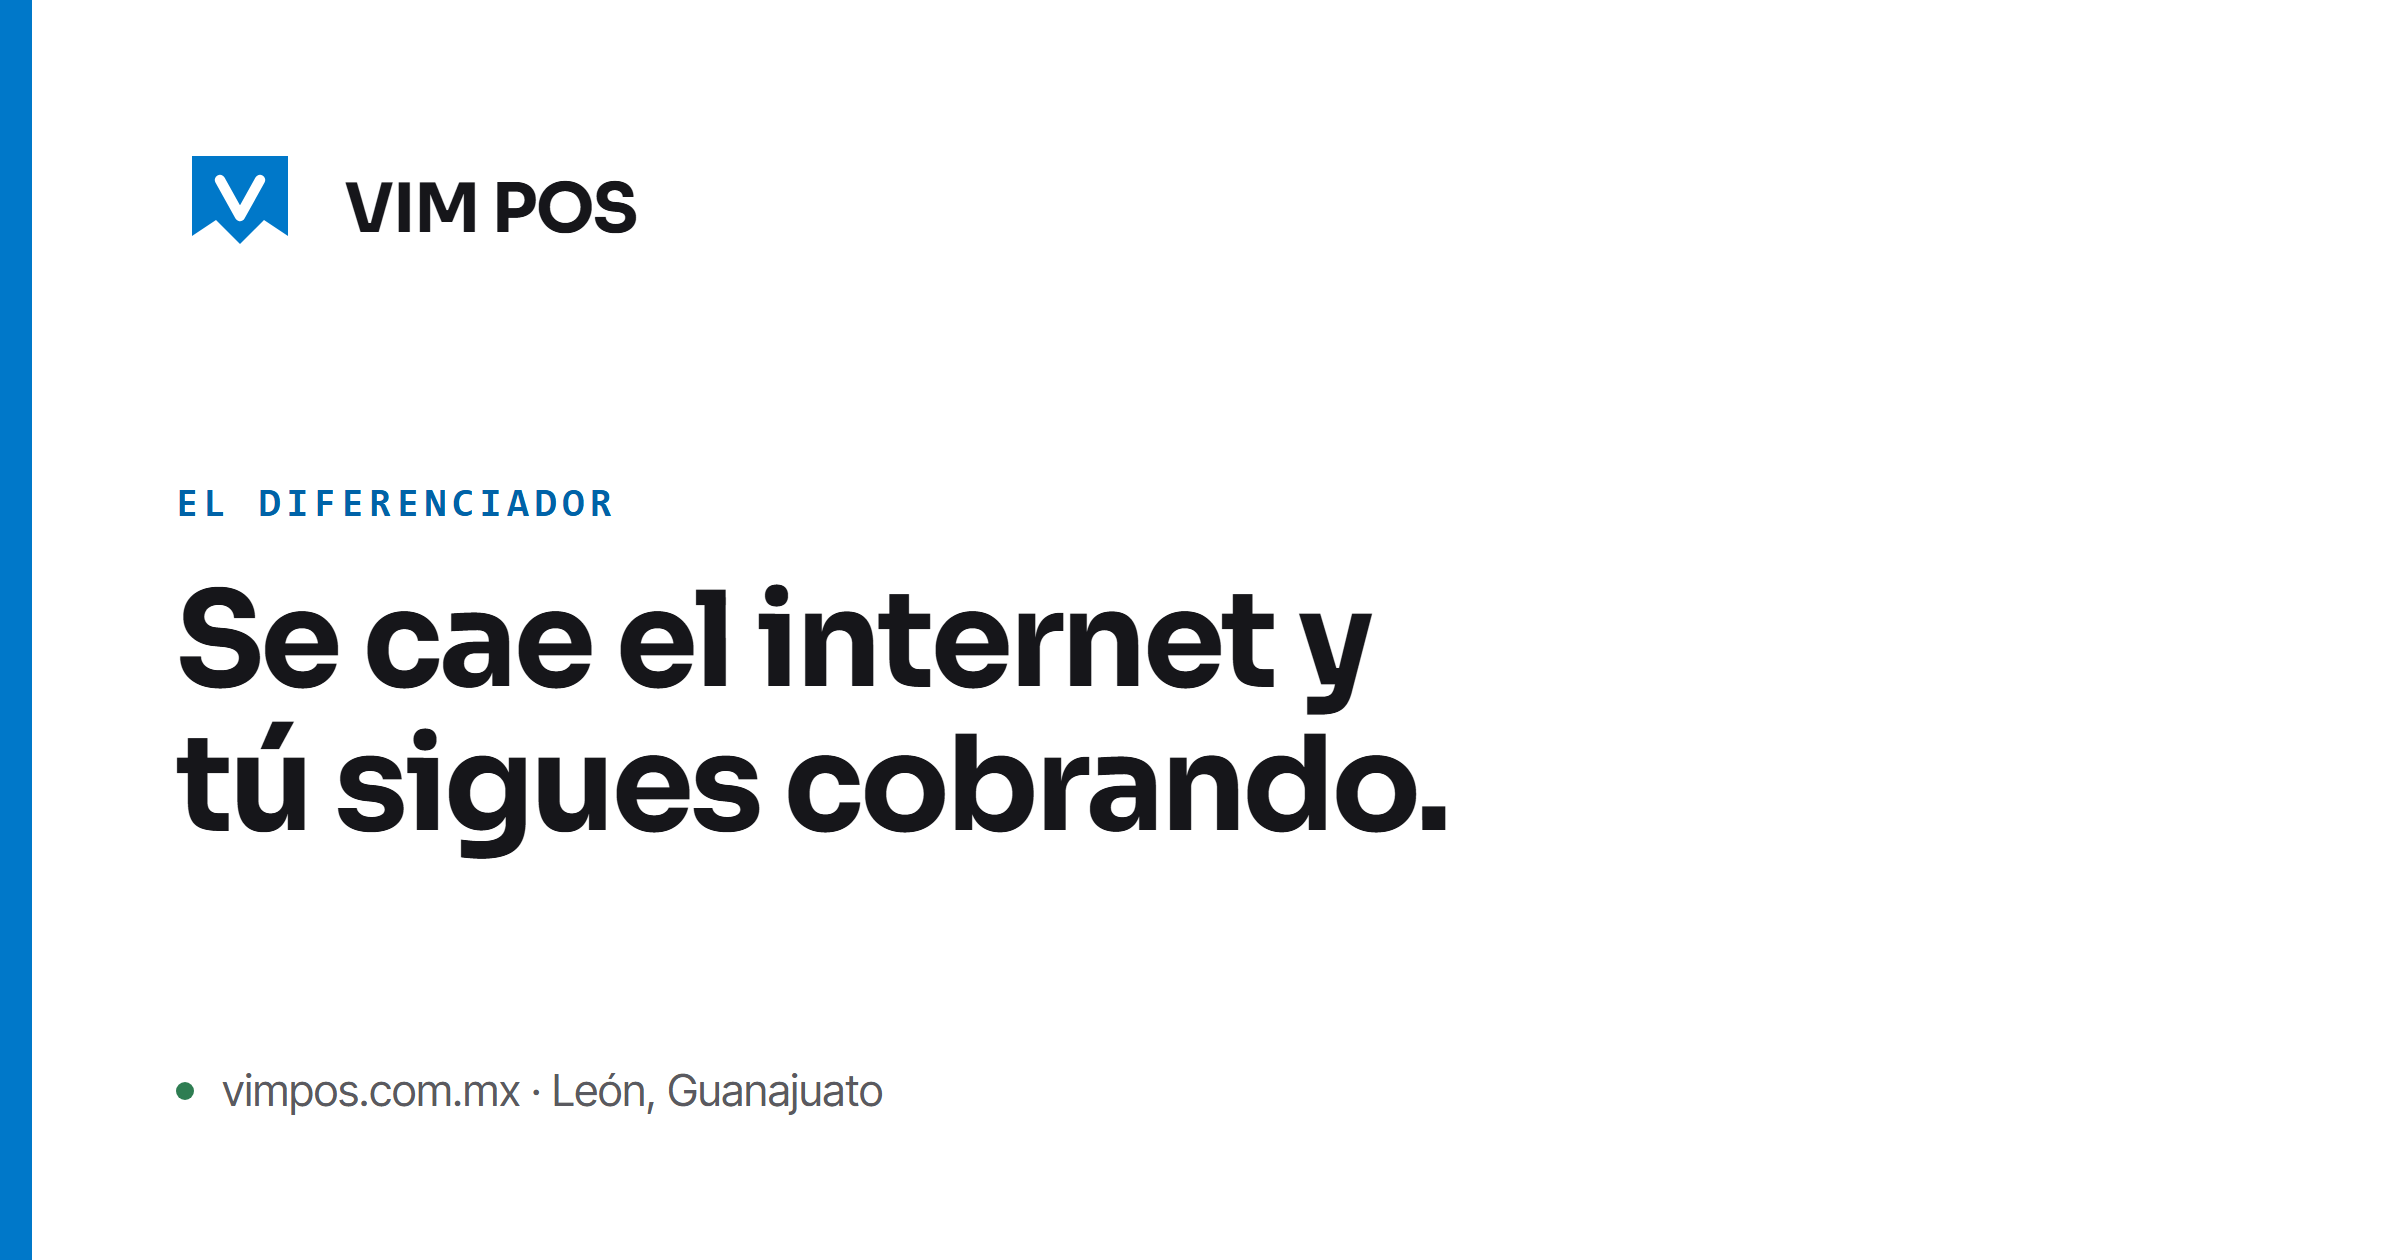
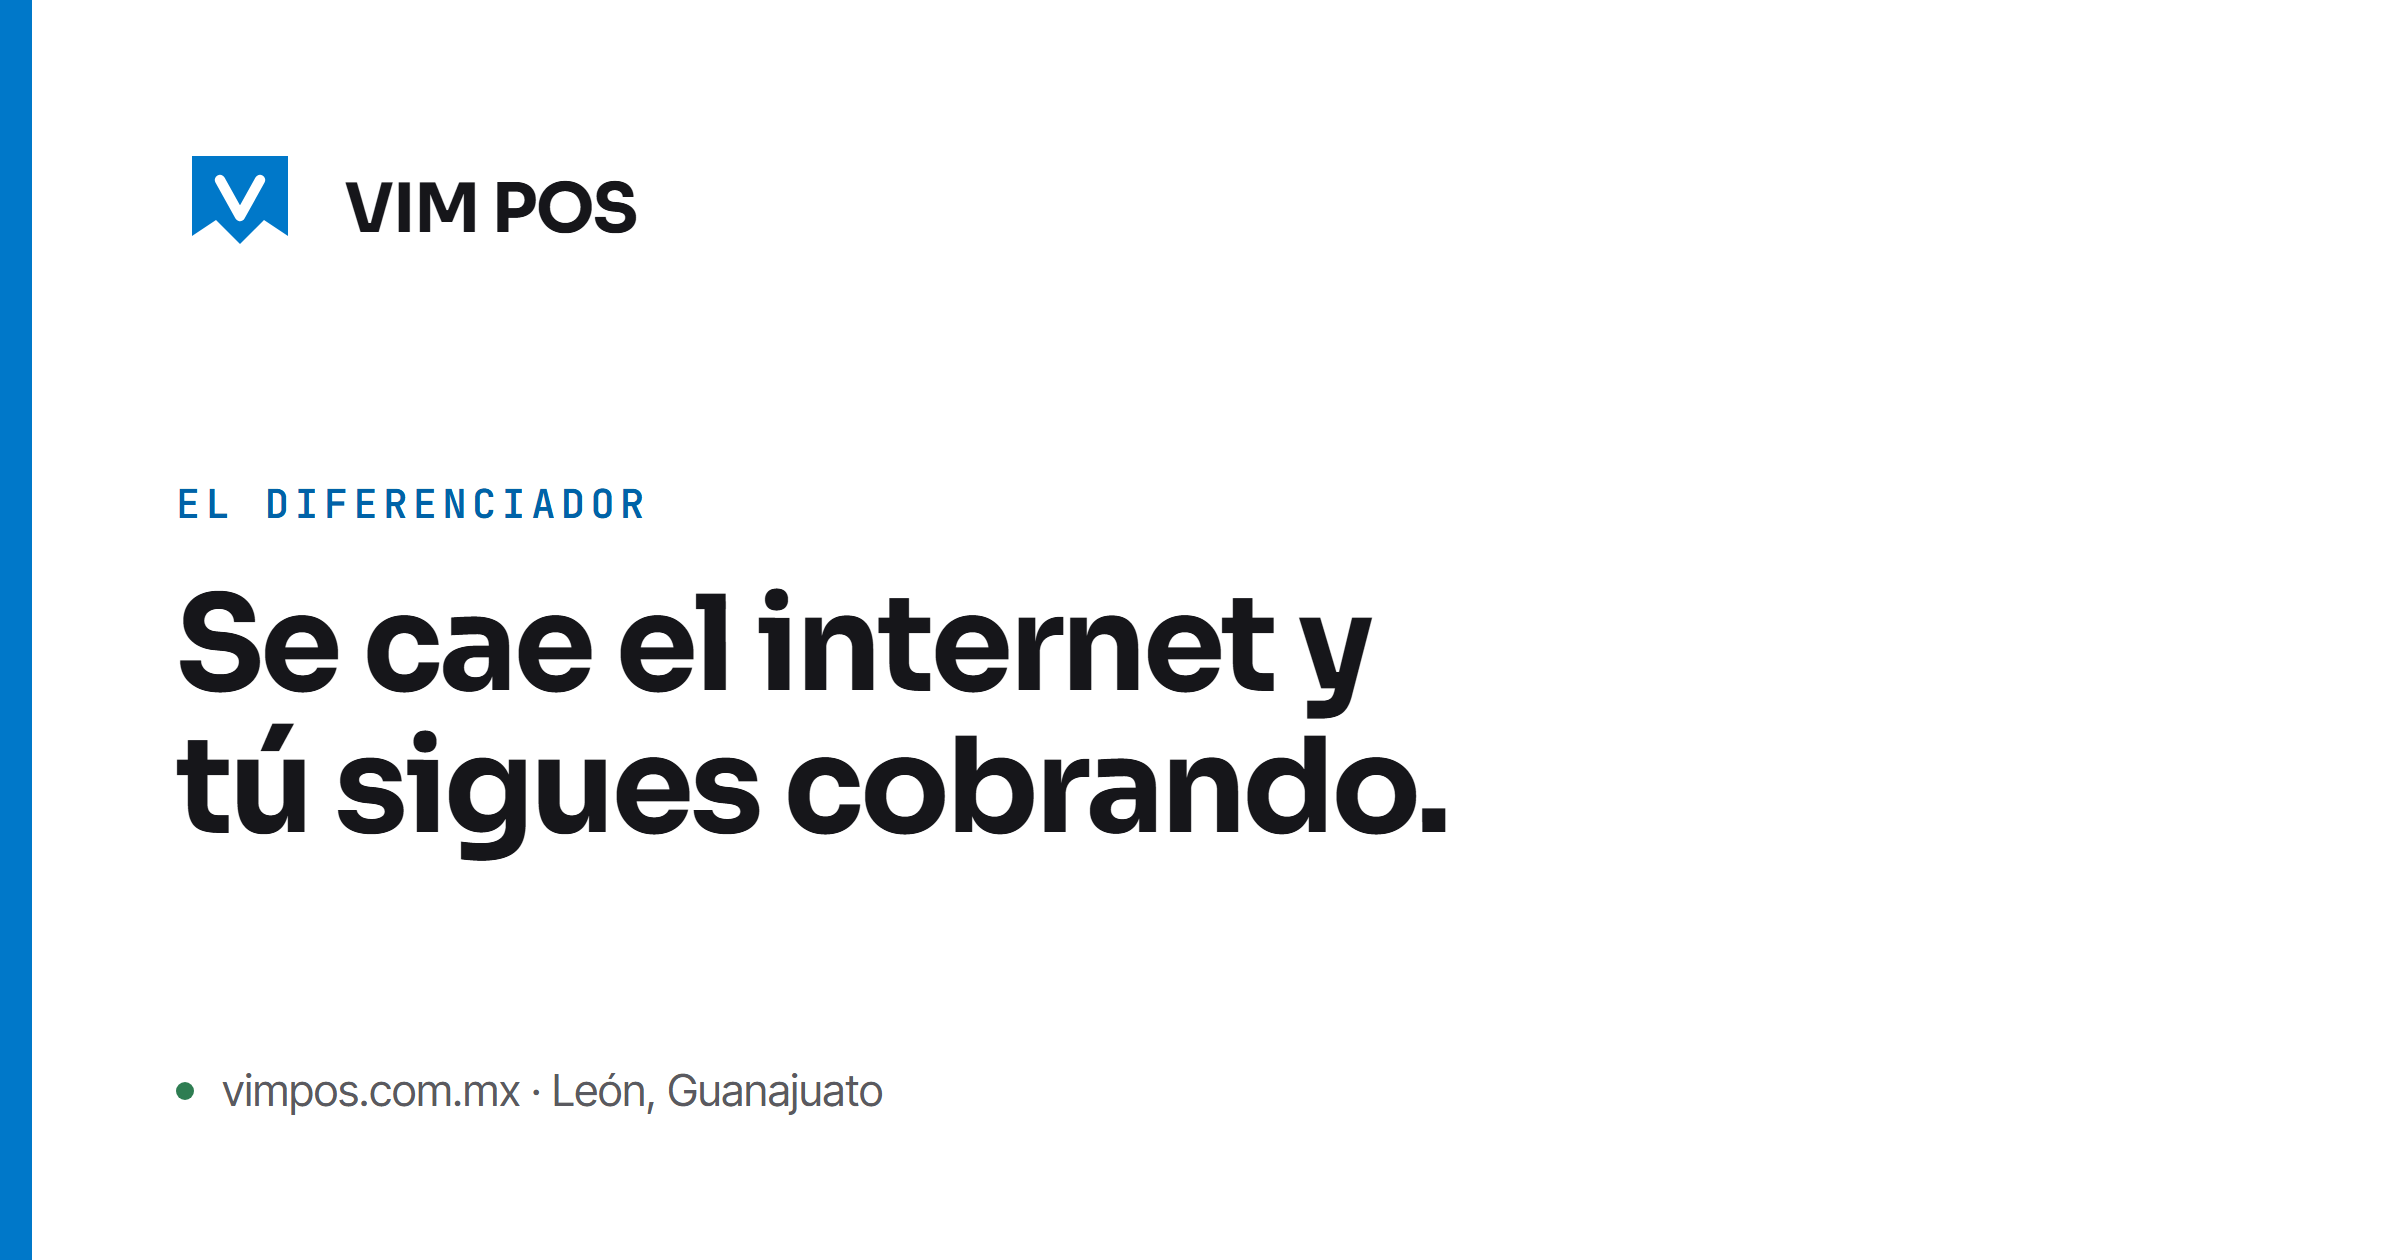
sitio: tres imágenes Open Graph propias y medición sin cookies
- OG: facturación, cómo elegir y cuánto cuesta ya no reutilizan la tarjeta
  de otra página. Las nueve se regeneran con la misma plantilla, que ahora
  sí carga JetBrains Mono para el rótulo (antes caía a la monoespaciada del
  sistema).
- Analítica: Vercel Web Analytics, servida desde este dominio y sin cookies.
  El script va en las catorce páginas; los cuatro eventos (clic en WhatsApp,
  demo enviada, precio anual, pregunta abierta) salen de vim.js por una cola
  que no rompe nada si el script no está. Falta encenderla en el proyecto de
  Vercel; hasta entonces el script es un 404 inofensivo.
- Aviso de privacidad: el párrafo de medición dice lo que se mide y con qué.
- Prueba de enlaces: `/_vercel/…` lo sirve la plataforma, no la carpeta.
- Versión de CSS y JS a 13.

diff --git a/sitio-web/assets/js/vim.js b/sitio-web/assets/js/vim.js
@@ -23,6 +23,26 @@
   var ANON = "eyJhbGciOiJIUzI1NiIsInR5cCI6IkpXVCJ9.eyJpc3MiOiJzdXBhYmFzZSIsInJlZiI6InBiaWF4enZtc3Nqc3hkd3FydW1iIiwicm9sZSI6ImFub24iLCJpYXQiOjE3ODAyNTMyMzIsImV4cCI6MjA5NTgyOTIzMn0.OsfFcqw-jrj-qZtFkUPQCrLgYtnDmsOxC93iLJShpKs";
   var WHATSAPP = "hola@vimpos.com.mx";
 
+  /* ---- Medición sin cookies ----------------------------------------------
+     Vercel Web Analytics: el script se sirve desde este mismo dominio, no pone
+     cookies y no identifica a nadie (el aviso de privacidad lo dice así).
+     Esta cola guarda los eventos que ocurran antes de que cargue el script;
+     él la vacía al arrancar. Si el script no está (analítica apagada en
+     Vercel, o el servidor local), nada se rompe: la cola crece y ya.
+
+     Cuatro eventos, los que dicen si el sitio vende: clic en WhatsApp, demo
+     enviada, cambio a precio anual y qué pregunta se abre. */
+  window.va = window.va || function () { (window.vaq = window.vaq || []).push(arguments); };
+  function medir(nombre, datos) {
+    try { window.va("event", { name: nombre, data: datos || {} }); } catch (e) { /* nunca estorba */ }
+  }
+
+  document.querySelectorAll('a[href*="wa.me/"]').forEach(function (a) {
+    a.addEventListener("click", function () {
+      medir("whatsapp", { pagina: location.pathname });
+    });
+  });
+
   /* ---- Menú móvil: cajón lateral ------------------------------------------
      La animación es CSS puro (`translateX`), así que aquí no se mide ni se
      escribe ningún alto — eso era la versión anterior, que se desplegaba hacia
@@ -154,6 +174,7 @@
       panel.style.height = abierto ? "0px" : panel.scrollHeight + "px";
       item.setAttribute("data-abierto", String(!abierto));
       boton.setAttribute("aria-expanded", String(!abierto));
+      if (!abierto) medir("acordeon", { titulo: boton.textContent.trim().slice(0, 80), pagina: location.pathname });
     });
   });
 
@@ -199,6 +220,8 @@
         document.querySelectorAll("[data-nota-periodo]").forEach(function (n) {
           n.textContent = anual ? "al mes, pagando el año, más IVA" : "al mes, más IVA";
         });
+
+        if (anual) medir("precio_anual");
       });
     });
   }
@@ -328,6 +351,7 @@
           form.hidden = true;
           listo.hidden = false;
           listo.querySelector("h2").focus();
+          medir("demo_enviada");
         })
         .catch(function (err) {
           /* El error no deja al visitante sin salida: se le ofrece WhatsApp,

diff --git a/sitio-web/aviso-privacidad.html b/sitio-web/aviso-privacidad.html
@@ -36,7 +36,7 @@
 <link rel="manifest" href="site.webmanifest">
 <meta name="theme-color" content="#0078C9">
 
-<link rel="stylesheet" href="assets/css/vim.css?v=12">
+<link rel="stylesheet" href="assets/css/vim.css?v=13">
 </head>
 <body>
 
@@ -223,8 +223,12 @@
             para verse está en este mismo sitio, así que tu visita no se le anuncia a nadie más.
           </p>
           <p>
-            Si más adelante medimos las visitas, será con una herramienta sin cookies y que no
-            identifica a nadie. Si eso cambiara, se actualizaría este aviso antes.
+            <strong>Sí medimos las visitas</strong>, con la herramienta del proveedor que aloja el
+            sitio (Vercel Web Analytics). No usa cookies, no guarda tu dirección IP y no identifica
+            a nadie: cuenta cuántas personas ven cada página, desde qué país y en qué tipo de
+            dispositivo, y si se hizo clic en WhatsApp, se envió el formulario de demostración, se
+            consultó el precio anual o se abrió una pregunta frecuente. No hay forma de saber quién
+            hizo cada cosa. Si esto cambiara, se actualizaría este aviso antes.
           </p>
         </div>
 
@@ -300,7 +304,11 @@
   </div>
 </footer>
 
-<script src="assets/js/vim.js?v=12" defer></script>
+<script src="assets/js/vim.js?v=13" defer></script>
+<!-- Medición sin cookies (Vercel Web Analytics). Se sirve desde este dominio y
+     solo existe si está encendida en el proyecto de Vercel; si no, es un 404
+     inofensivo. Los eventos se mandan desde vim.js. -->
+<script defer src="/_vercel/insights/script.js"></script>
 <script type="application/ld+json">
 {
   "@context": "https://schema.org",

diff --git a/sitio-web/cuanto-cuesta-un-sistema-para-restaurante.html b/sitio-web/cuanto-cuesta-un-sistema-para-restaurante.html
@@ -15,7 +15,7 @@
 <meta property="og:title" content="Cuánto cuesta de verdad un sistema para restaurante">
 <meta property="og:description" content="Licencia fija, gratuito o porcentaje por venta. La aritmética para comparar los tres con tu venta real.">
 <meta property="og:url" content="https://vimpos.com.mx/cuanto-cuesta-un-sistema-para-restaurante">
-<meta property="og:image" content="https://vimpos.com.mx/assets/img/og/precios.png">
+<meta property="og:image" content="https://vimpos.com.mx/assets/img/og/cuanto-cuesta.png">
 <meta property="og:image:width" content="1200">
 <meta property="og:image:height" content="630">
 <meta property="og:image:alt" content="VIM POS, punto de venta para restaurantes en Mexico">
@@ -36,7 +36,7 @@
 <link rel="manifest" href="site.webmanifest">
 <meta name="theme-color" content="#0078C9">
 
-<link rel="stylesheet" href="assets/css/vim.css?v=12">
+<link rel="stylesheet" href="assets/css/vim.css?v=13">
 </head>
 <body>
 
@@ -312,7 +312,11 @@
   </div>
 </footer>
 
-<script src="assets/js/vim.js?v=12" defer></script>
+<script src="assets/js/vim.js?v=13" defer></script>
+<!-- Medición sin cookies (Vercel Web Analytics). Se sirve desde este dominio y
+     solo existe si está encendida en el proyecto de Vercel; si no, es un 404
+     inofensivo. Los eventos se mandan desde vim.js. -->
+<script defer src="/_vercel/insights/script.js"></script>
 
 <script type="application/ld+json">
 {

diff --git a/sitio-web/como-elegir-sistema-restaurante.html b/sitio-web/como-elegir-sistema-restaurante.html
@@ -15,7 +15,7 @@
 <meta property="og:title" content="Cómo elegir el sistema para tu restaurante">
 <meta property="og:description" content="Nueve preguntas que conviene hacerle a cualquier proveedor antes de firmar. Incluye en qué casos VIM POS no es la respuesta.">
 <meta property="og:url" content="https://vimpos.com.mx/como-elegir-sistema-restaurante">
-<meta property="og:image" content="https://vimpos.com.mx/assets/img/og/home.png">
+<meta property="og:image" content="https://vimpos.com.mx/assets/img/og/como-elegir.png">
 <meta property="og:image:width" content="1200">
 <meta property="og:image:height" content="630">
 <meta property="og:image:alt" content="VIM POS, punto de venta para restaurantes en Mexico">
@@ -36,7 +36,7 @@
 <link rel="manifest" href="site.webmanifest">
 <meta name="theme-color" content="#0078C9">
 
-<link rel="stylesheet" href="assets/css/vim.css?v=12">
+<link rel="stylesheet" href="assets/css/vim.css?v=13">
 </head>
 <body>
 
@@ -355,7 +355,11 @@
   </div>
 </footer>
 
-<script src="assets/js/vim.js?v=12" defer></script>
+<script src="assets/js/vim.js?v=13" defer></script>
+<!-- Medición sin cookies (Vercel Web Analytics). Se sirve desde este dominio y
+     solo existe si está encendida en el proyecto de Vercel; si no, es un 404
+     inofensivo. Los eventos se mandan desde vim.js. -->
+<script defer src="/_vercel/insights/script.js"></script>
 
 <script type="application/ld+json">
 {

diff --git a/sitio-web/facturacion-cfdi.html b/sitio-web/facturacion-cfdi.html
@@ -15,7 +15,7 @@
 <meta property="og:title" content="Facturación CFDI 4.0 para tu restaurante">
 <meta property="og:description" content="Autofactura por QR desde el ticket, factura global automática, y el periodo lo eliges tú. Sin e.firma.">
 <meta property="og:url" content="https://vimpos.com.mx/facturacion-cfdi">
-<meta property="og:image" content="https://vimpos.com.mx/assets/img/og/funciones.png">
+<meta property="og:image" content="https://vimpos.com.mx/assets/img/og/facturacion-cfdi.png">
 <meta property="og:image:width" content="1200">
 <meta property="og:image:height" content="630">
 <meta property="og:image:alt" content="VIM POS, punto de venta para restaurantes en Mexico">
@@ -36,7 +36,7 @@
 <link rel="manifest" href="site.webmanifest">
 <meta name="theme-color" content="#0078C9">
 
-<link rel="stylesheet" href="assets/css/vim.css?v=12">
+<link rel="stylesheet" href="assets/css/vim.css?v=13">
 </head>
 <body>
 
@@ -410,7 +410,11 @@
   </div>
 </footer>
 
-<script src="assets/js/vim.js?v=12" defer></script>
+<script src="assets/js/vim.js?v=13" defer></script>
+<!-- Medición sin cookies (Vercel Web Analytics). Se sirve desde este dominio y
+     solo existe si está encendida en el proyecto de Vercel; si no, es un 404
+     inofensivo. Los eventos se mandan desde vim.js. -->
+<script defer src="/_vercel/insights/script.js"></script>
 
 <script type="application/ld+json">
 {

diff --git a/sitio-web/demo.html b/sitio-web/demo.html
@@ -36,7 +36,7 @@
 <link rel="manifest" href="site.webmanifest">
 <meta name="theme-color" content="#0078C9">
 
-<link rel="stylesheet" href="assets/css/vim.css?v=12">
+<link rel="stylesheet" href="assets/css/vim.css?v=13">
 </head>
 <body>
 
@@ -313,7 +313,11 @@
   </div>
 </footer>
 
-<script src="assets/js/vim.js?v=12" defer></script>
+<script src="assets/js/vim.js?v=13" defer></script>
+<!-- Medición sin cookies (Vercel Web Analytics). Se sirve desde este dominio y
+     solo existe si está encendida en el proyecto de Vercel; si no, es un 404
+     inofensivo. Los eventos se mandan desde vim.js. -->
+<script defer src="/_vercel/insights/script.js"></script>
 <script type="application/ld+json">
 {
   "@context": "https://schema.org",

diff --git a/sitio-web/funciones.html b/sitio-web/funciones.html
@@ -36,7 +36,7 @@
 <link rel="manifest" href="site.webmanifest">
 <meta name="theme-color" content="#0078C9">
 
-<link rel="stylesheet" href="assets/css/vim.css?v=12">
+<link rel="stylesheet" href="assets/css/vim.css?v=13">
 </head>
 <body>
 
@@ -616,7 +616,11 @@
   </div>
 </footer>
 
-<script src="assets/js/vim.js?v=12" defer></script>
+<script src="assets/js/vim.js?v=13" defer></script>
+<!-- Medición sin cookies (Vercel Web Analytics). Se sirve desde este dominio y
+     solo existe si está encendida en el proyecto de Vercel; si no, es un 404
+     inofensivo. Los eventos se mandan desde vim.js. -->
+<script defer src="/_vercel/insights/script.js"></script>
 <script type="application/ld+json">
 {
   "@context": "https://schema.org",

diff --git a/sitio-web/precios.html b/sitio-web/precios.html
@@ -36,7 +36,7 @@
 <link rel="manifest" href="site.webmanifest">
 <meta name="theme-color" content="#0078C9">
 
-<link rel="stylesheet" href="assets/css/vim.css?v=12">
+<link rel="stylesheet" href="assets/css/vim.css?v=13">
 </head>
 <body>
 
@@ -681,7 +681,11 @@
   </div>
 </footer>
 
-<script src="assets/js/vim.js?v=12" defer></script>
+<script src="assets/js/vim.js?v=13" defer></script>
+<!-- Medición sin cookies (Vercel Web Analytics). Se sirve desde este dominio y
+     solo existe si está encendida en el proyecto de Vercel; si no, es un 404
+     inofensivo. Los eventos se mandan desde vim.js. -->
+<script defer src="/_vercel/insights/script.js"></script>
 <script type="application/ld+json">
 {
   "@context": "https://schema.org",

diff --git a/sitio-web/sin-internet.html b/sitio-web/sin-internet.html
@@ -36,7 +36,7 @@
 <link rel="manifest" href="site.webmanifest">
 <meta name="theme-color" content="#0078C9">
 
-<link rel="stylesheet" href="assets/css/vim.css?v=12">
+<link rel="stylesheet" href="assets/css/vim.css?v=13">
 </head>
 <body>
 
@@ -542,7 +542,11 @@
   </div>
 </footer>
 
-<script src="assets/js/vim.js?v=12" defer></script>
+<script src="assets/js/vim.js?v=13" defer></script>
+<!-- Medición sin cookies (Vercel Web Analytics). Se sirve desde este dominio y
+     solo existe si está encendida en el proyecto de Vercel; si no, es un 404
+     inofensivo. Los eventos se mandan desde vim.js. -->
+<script defer src="/_vercel/insights/script.js"></script>
 <script type="application/ld+json">
 {
   "@context": "https://schema.org",

diff --git a/sitio-web/terminos.html b/sitio-web/terminos.html
@@ -36,7 +36,7 @@
 <link rel="manifest" href="site.webmanifest">
 <meta name="theme-color" content="#0078C9">
 
-<link rel="stylesheet" href="assets/css/vim.css?v=12">
+<link rel="stylesheet" href="assets/css/vim.css?v=13">
 </head>
 <body>
 
@@ -342,7 +342,11 @@
   </div>
 </footer>
 
-<script src="assets/js/vim.js?v=12" defer></script>
+<script src="assets/js/vim.js?v=13" defer></script>
+<!-- Medición sin cookies (Vercel Web Analytics). Se sirve desde este dominio y
+     solo existe si está encendida en el proyecto de Vercel; si no, es un 404
+     inofensivo. Los eventos se mandan desde vim.js. -->
+<script defer src="/_vercel/insights/script.js"></script>
 <script type="application/ld+json">
 {
   "@context": "https://schema.org",

diff --git a/sitio-web/contacto.html b/sitio-web/contacto.html
@@ -36,7 +36,7 @@
 <link rel="manifest" href="site.webmanifest">
 <meta name="theme-color" content="#0078C9">
 
-<link rel="stylesheet" href="assets/css/vim.css?v=12">
+<link rel="stylesheet" href="assets/css/vim.css?v=13">
 </head>
 <body>
 
@@ -260,7 +260,11 @@
 }
 </script>
 
-<script src="assets/js/vim.js?v=12" defer></script>
+<script src="assets/js/vim.js?v=13" defer></script>
+<!-- Medición sin cookies (Vercel Web Analytics). Se sirve desde este dominio y
+     solo existe si está encendida en el proyecto de Vercel; si no, es un 404
+     inofensivo. Los eventos se mandan desde vim.js. -->
+<script defer src="/_vercel/insights/script.js"></script>
 <script type="application/ld+json">
 {
   "@context": "https://schema.org",

diff --git a/sitio-web/nosotros.html b/sitio-web/nosotros.html
@@ -36,7 +36,7 @@
 <link rel="manifest" href="site.webmanifest">
 <meta name="theme-color" content="#0078C9">
 
-<link rel="stylesheet" href="assets/css/vim.css?v=12">
+<link rel="stylesheet" href="assets/css/vim.css?v=13">
 </head>
 <body>
 
@@ -286,7 +286,11 @@
 }
 </script>
 
-<script src="assets/js/vim.js?v=12" defer></script>
+<script src="assets/js/vim.js?v=13" defer></script>
+<!-- Medición sin cookies (Vercel Web Analytics). Se sirve desde este dominio y
+     solo existe si está encendida en el proyecto de Vercel; si no, es un 404
+     inofensivo. Los eventos se mandan desde vim.js. -->
+<script defer src="/_vercel/insights/script.js"></script>
 <script type="application/ld+json">
 {
   "@context": "https://schema.org",
